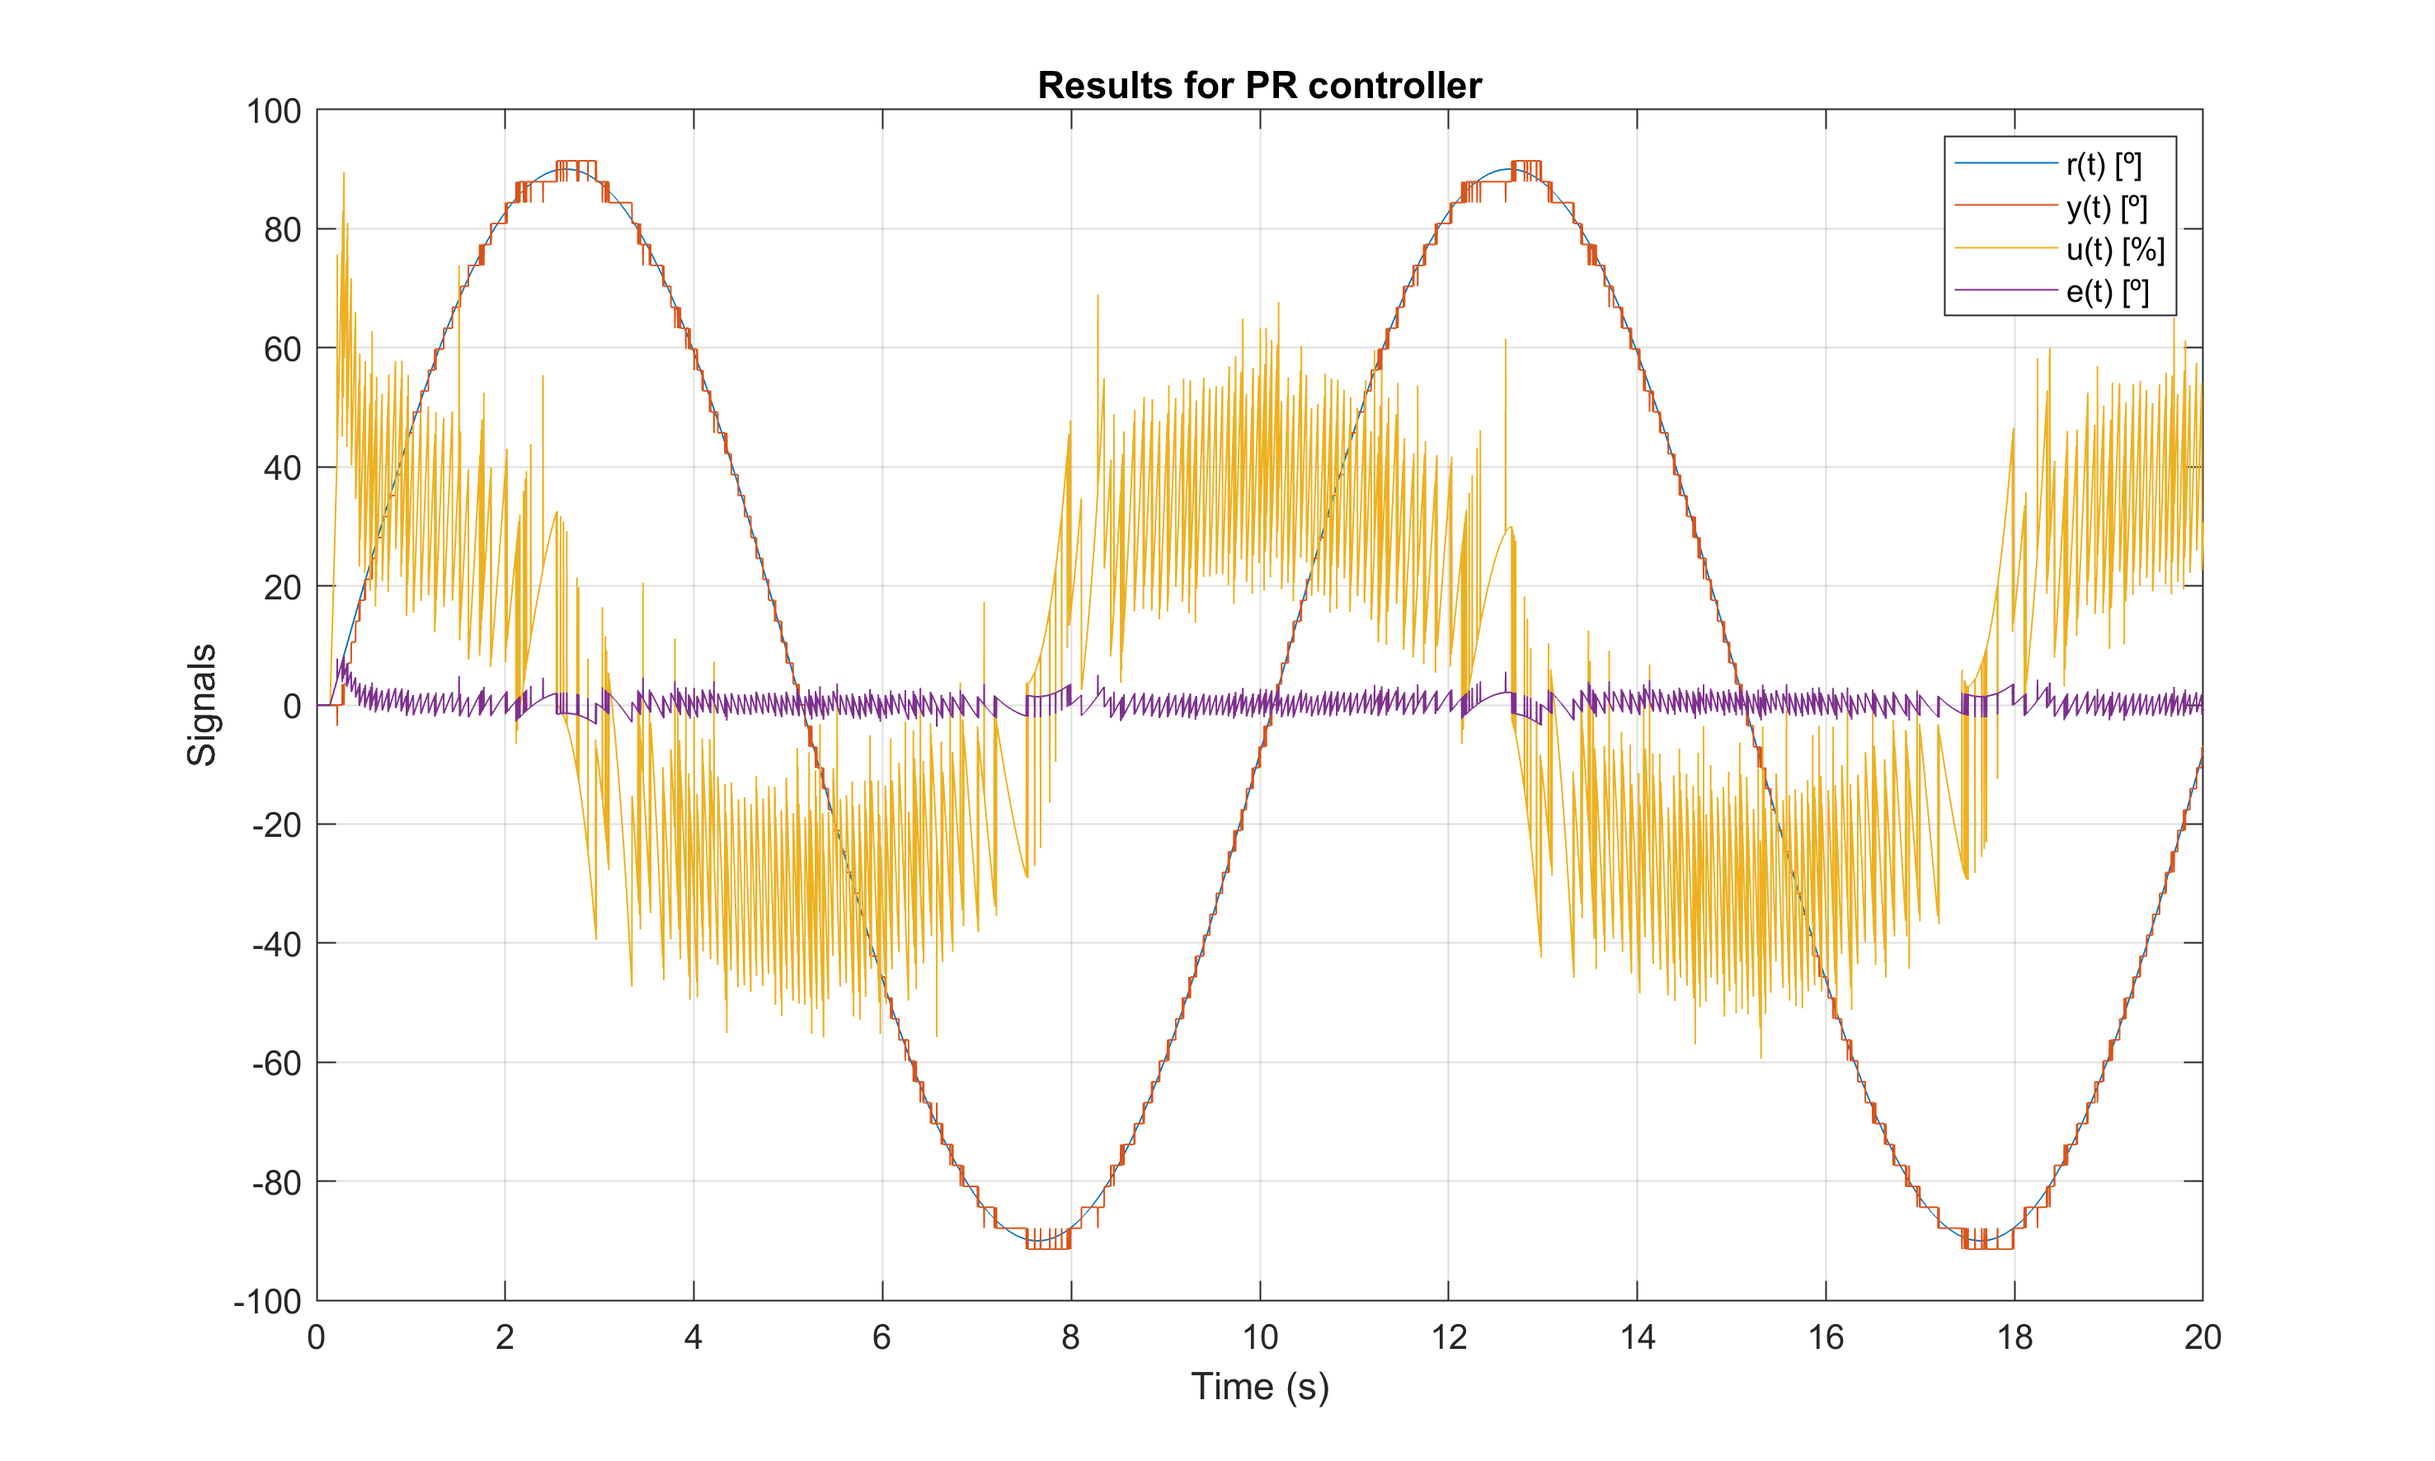
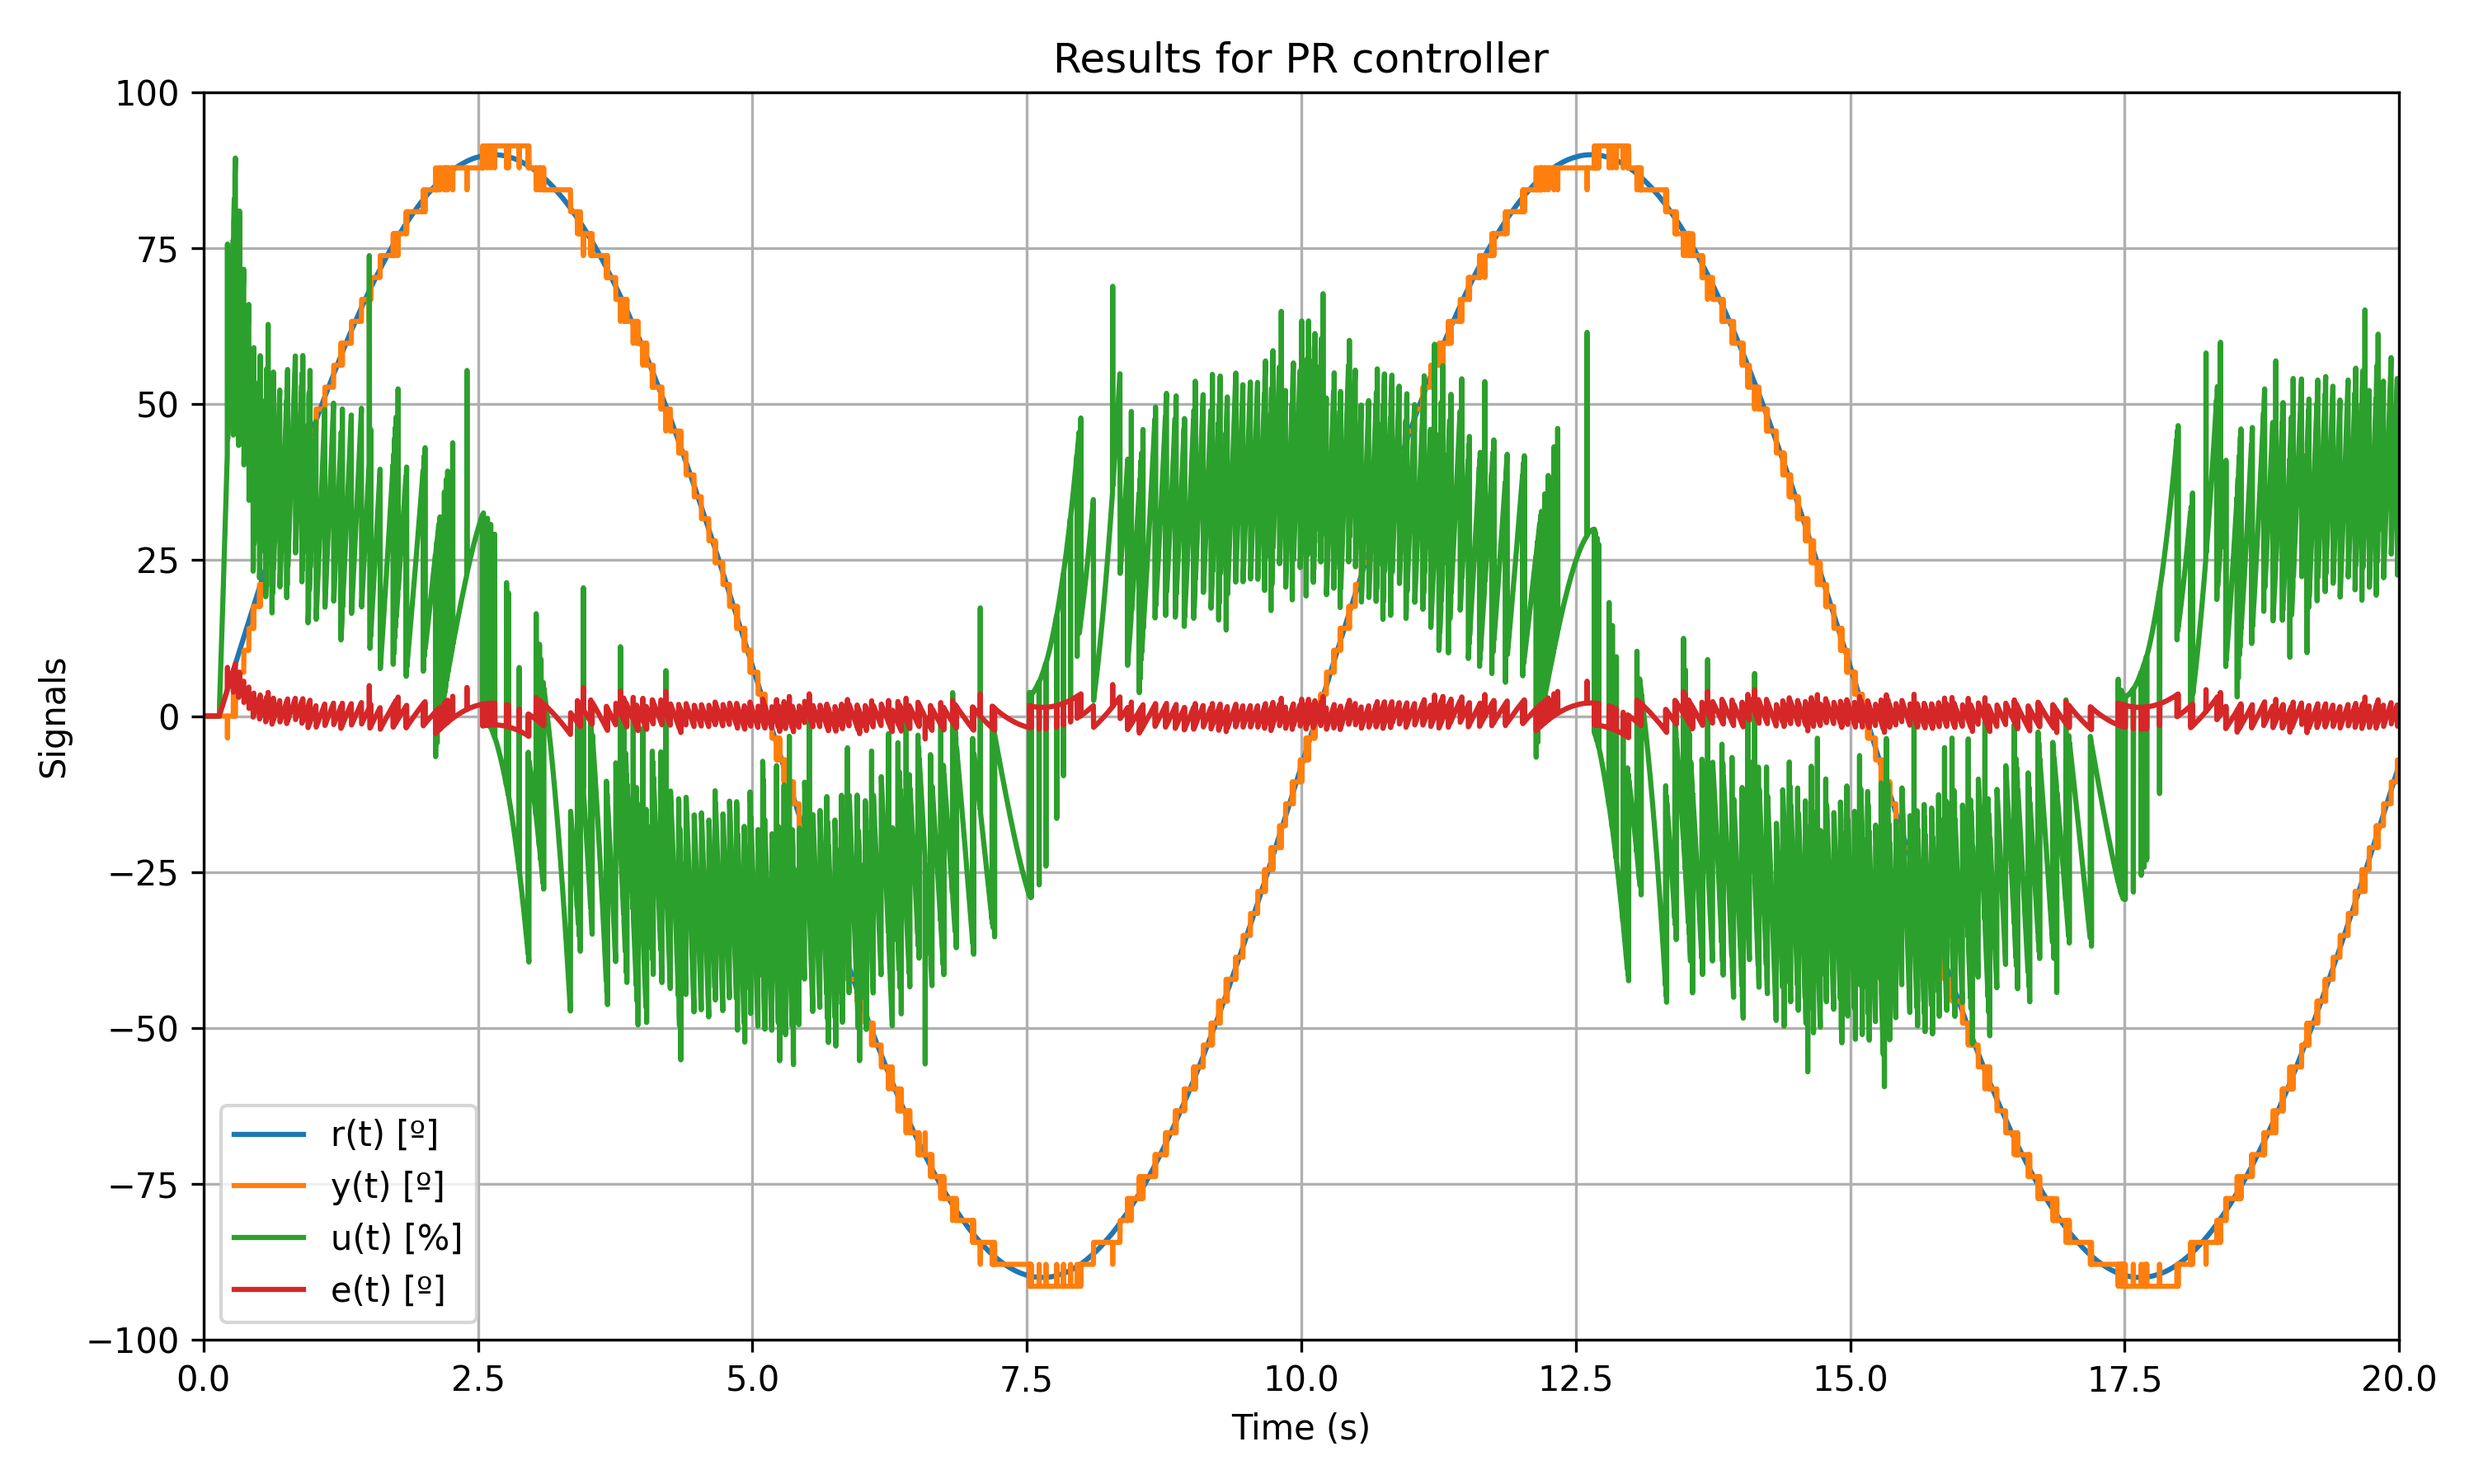
v1.0.0

diff --git a/dc_motor_position_comparison/dc_motor_data_comparison.py b/dc_motor_position_comparison/dc_motor_data_comparison.py
@@ -1,0 +1,37 @@
+import os, pandas, numpy
+import matplotlib.pyplot as plt
+os.chdir(os.path.dirname(os.path.dirname(os.path.abspath(__file__))))
+
+
+# load data
+data_pid = pandas.read_csv('dc_motor_position_control_pid/data.csv')
+data_pr  = pandas.read_csv('dc_motor_position_control_pr/data.csv')
+data_rep = pandas.read_csv('dc_motor_position_control_repetitive/data.csv')
+fs = 1/0.002    # sampling frequency
+N  = 10000
+t  = numpy.arange(N)/fs
+
+e_pid = data_pid['Channel 3'].to_numpy()
+e_pr  =  data_pr['Channel 3'].to_numpy()
+e_rep = data_rep['Channel 3'].to_numpy()
+rmse_pid = numpy.sqrt( (e_pid[5000:N]**2).mean() )
+rmse_pr  = numpy.sqrt( (e_pr[5000:N]**2).mean() )
+rmse_rep = numpy.sqrt( (e_rep[5000:N]**2).mean() )
+
+# plot data
+plt.figure(figsize=(10, 6))
+plt.plot(t, e_pid[:N], label=f'PID RMSE={rmse_pid:.2f}')
+plt.plot(t, e_pr[:N], label=f'PR_RMSE={rmse_pr:.2f}')
+plt.plot(t, e_rep[:N], label=f'repetitive_RMSE={rmse_rep:.2f}')
+plt.grid(True)
+plt.ylim([-100, 100])
+plt.xlim([0, 20])
+plt.title('Results for each controller')
+plt.xlabel('Time (s)')
+plt.ylabel('Signals')
+plt.legend()
+
+# save figure
+plt.tight_layout()
+plt.savefig('dc_motor_data_comparison.png', dpi=300)
+plt.show()

diff --git a/dc_motor_position_control_repetitive/dc_motor_data_repetitive.py b/dc_motor_position_control_repetitive/dc_motor_data_repetitive.py
@@ -1,0 +1,33 @@
+import os, pandas, numpy
+import matplotlib.pyplot as plt
+os.chdir(os.path.dirname(os.path.abspath(__file__)))
+
+
+# load data
+data = pandas.read_csv('data.csv')
+fs = 1/0.002    # sampling frequency
+N  = len(data)
+t  = numpy.arange(N)/fs
+r  = data['Channel 1'].to_numpy()
+y  = data['Channel 2'].to_numpy()
+e  = data['Channel 3'].to_numpy()
+u  = data['Channel 4'].to_numpy()
+
+# plot data
+plt.figure(figsize=(10, 6))
+plt.plot(t, r, label='r(t) [º]')
+plt.plot(t, y, label='y(t) [º]')
+plt.plot(t, u, label='u(t) [%]')
+plt.plot(t, e, label='e(t) [º]')
+plt.grid(True)
+plt.ylim([-100, 100])
+plt.xlim([0, 20])
+plt.title('Results for repetitive controller')
+plt.xlabel('Time (s)')
+plt.ylabel('Signals')
+plt.legend()
+
+# save figure
+plt.tight_layout()
+plt.savefig('dc_motor_data_repetitive.png', dpi=300)
+plt.show()

diff --git a/dc_motor_position_control_pid/dc_motor_data_pid.py b/dc_motor_position_control_pid/dc_motor_data_pid.py
@@ -1,0 +1,33 @@
+import os, pandas, numpy
+import matplotlib.pyplot as plt
+os.chdir(os.path.dirname(os.path.abspath(__file__)))
+
+
+# load data
+data = pandas.read_csv('data.csv')
+fs = 1/0.002    # sampling frequency
+N  = len(data)
+t  = numpy.arange(N)/fs
+r  = data['Channel 1'].to_numpy()
+y  = data['Channel 2'].to_numpy()
+e  = data['Channel 3'].to_numpy()
+u  = data['Channel 4'].to_numpy()
+
+# plot data
+plt.figure(figsize=(10, 6))
+plt.plot(t, r, label='r(t) [º]')
+plt.plot(t, y, label='y(t) [º]')
+plt.plot(t, u, label='u(t) [%]')
+plt.plot(t, e, label='e(t) [º]')
+plt.grid(True)
+plt.ylim([-100, 100])
+plt.xlim([0, 20])
+plt.title('Results for PID controller')
+plt.xlabel('Time (s)')
+plt.ylabel('Signals')
+plt.legend()
+
+# save figure
+plt.tight_layout()
+plt.savefig('dc_motor_data_pid.png', dpi=300)
+plt.show()

diff --git a/dc_motor_position_control_pr/dc_motor_data_pr.py b/dc_motor_position_control_pr/dc_motor_data_pr.py
@@ -1,0 +1,33 @@
+import os, pandas, numpy
+import matplotlib.pyplot as plt
+os.chdir(os.path.dirname(os.path.abspath(__file__)))
+
+
+# load data
+data = pandas.read_csv('data.csv')
+fs = 1/0.002    # sampling frequency
+N  = len(data)
+t  = numpy.arange(N)/fs
+r  = data['Channel 1'].to_numpy()
+y  = data['Channel 2'].to_numpy()
+e  = data['Channel 3'].to_numpy()
+u  = data['Channel 4'].to_numpy()
+
+# plot data
+plt.figure(figsize=(10, 6))
+plt.plot(t, r, label='r(t) [º]')
+plt.plot(t, y, label='y(t) [º]')
+plt.plot(t, u, label='u(t) [%]')
+plt.plot(t, e, label='e(t) [º]')
+plt.grid(True)
+plt.ylim([-100, 100])
+plt.xlim([0, 20])
+plt.title('Results for PR controller')
+plt.xlabel('Time (s)')
+plt.ylabel('Signals')
+plt.legend()
+
+# save figure
+plt.tight_layout()
+plt.savefig('dc_motor_data_pr.png', dpi=300)
+plt.show()
